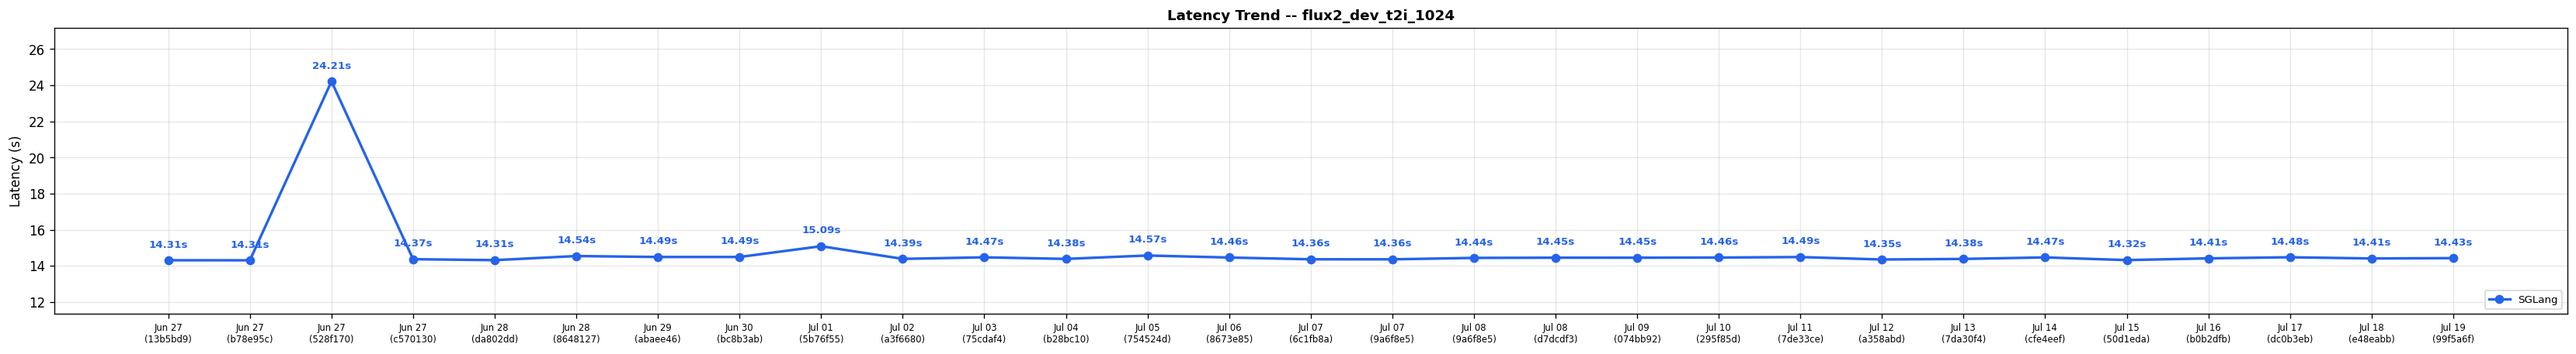
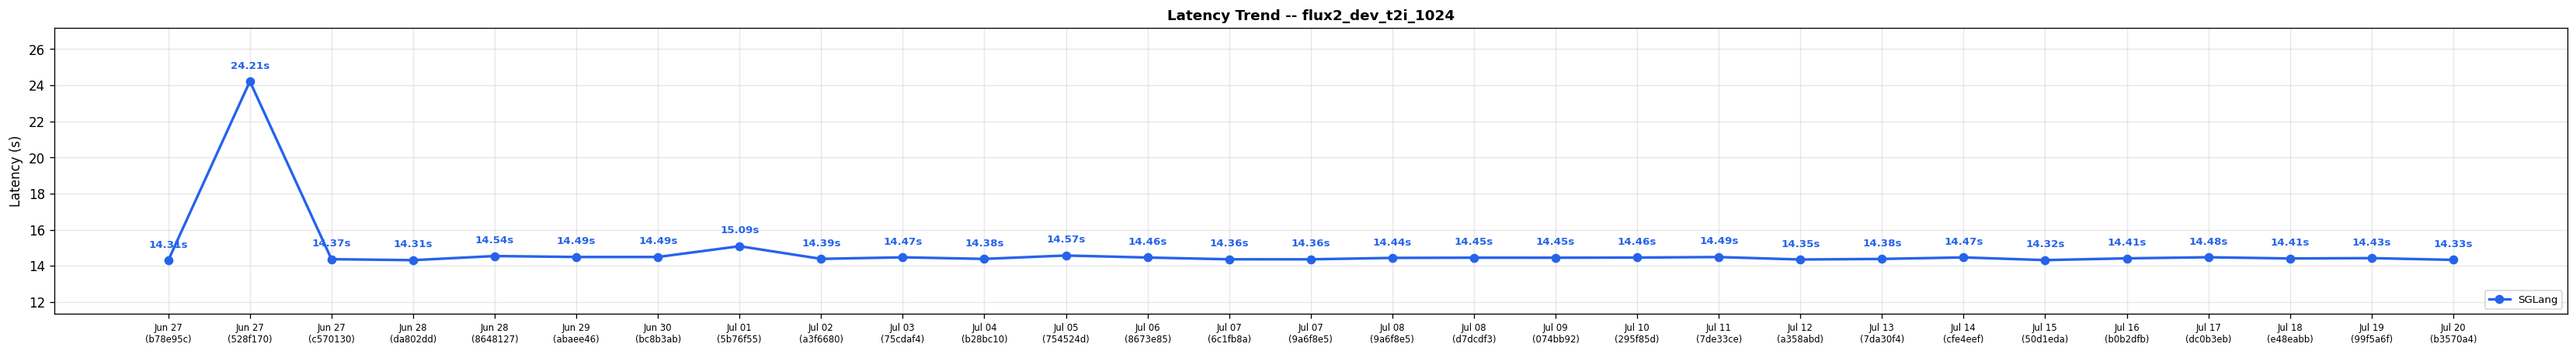
Diffusion comparison results for run 29709956426 (#722)

diff --git a/diffusion-comparisons/dashboard.md b/diffusion-comparisons/dashboard.md
@@ -1,22 +1,22 @@
 # SGLang-Diffusion Nightly Performance Dashboard
 
-*Generated: Jul 19 | Commit: `99f5a6f`*
+*Generated: Jul 20 | Commit: `b3570a4`*
 
 ## SGLang-Diffusion Performance
 
 | Model | Risk | sglang (s) |
 |-------|------|---------|
-| FLUX.1-dev | ✅ | **4.85** |
-| FLUX.2-dev | ✅ | **14.43** |
-| Qwen-Image-2512 | ⚠ | **10.96** |
-| Qwen-Image-Edit-2511 | ✅ | **15.41** |
-| Z-Image-Turbo | ✅ | **0.86** |
-| Wan2.2-T2V-A14B-Diffusers | ✅ | **210.72** |
-| Wan2.2-TI2V-5B-Diffusers | ✅ | **65.21** |
-| LTX-2.3 | ⚠ | **16.07** |
-| ideogram-4-fp8 | ✅ | **5.35** |
-| Cosmos3-Super | ✅ | **115.39** |
-| Wan2.2-I2V-A14B-Diffusers | ✅ | **203.71** |
+| FLUX.1-dev | ✅ | **4.83** |
+| FLUX.2-dev | ✅ | **14.33** |
+| Qwen-Image-2512 | ✅ | **8.80** |
+| Qwen-Image-Edit-2511 | ✅ | **15.26** |
+| Z-Image-Turbo | ✅ | **0.81** |
+| Wan2.2-T2V-A14B-Diffusers | ✅ | **210.73** |
+| Wan2.2-TI2V-5B-Diffusers | ✅ | **65.25** |
+| LTX-2.3 | ✅ | **13.06** |
+| ideogram-4-fp8 | ✅ | **5.31** |
+| Cosmos3-Super | ✅ | **115.38** |
+| Wan2.2-I2V-A14B-Diffusers | ✅ | **203.68** |
 
 ### Latency Trend: flux1_dev_t2i_1024
 
@@ -77,6 +77,7 @@
 
 | Date | Commit | flux1_dev_t2i_1024 (s) | flux2_dev_t2i_1024 (s) | qwen_image_2512_t2i_1024 (s) | qwen_image_edit_2511 (s) | zimage_turbo_t2i_1024 (s) | wan22_t2v_a14b_720p (s) | wan22_ti2v_5b_720p (s) | ltx2.3_twostage_ti2v_2gpus (s) | ideogram4_fp8_t2i_2gpu (s) | cosmos3_super_t2v_2gpu (s) | wan22_i2v_a14b_720p (s) | Trend |
 |------|--------|---------|---------|---------|---------|---------|---------|---------|---------|---------|---------|---------|-------|
+| Jul 20 | `b3570a4` | 4.83 | 14.33 | 8.80 | 15.26 | 0.81 | 210.73 | 65.25 | 13.06 | 5.31 | 115.38 | 203.68 | :left_right_arrow:  :left_right_arrow:  :arrow_down:  :left_right_arrow:  :arrow_down:  :left_right_arrow:  :left_right_arrow:  :arrow_down:  :left_right_arrow:  :left_right_arrow:  :left_right_arrow: |
 | Jul 19 | `99f5a6f` | 4.85 | 14.43 | 10.96 | 15.41 | 0.86 | 210.72 | 65.21 | 16.07 | 5.35 | 115.39 | 203.71 | :left_right_arrow:  :left_right_arrow:  :left_right_arrow:  :left_right_arrow:  :arrow_up:  :left_right_arrow:  :left_right_arrow:  :left_right_arrow:   :left_right_arrow:  :left_right_arrow: |
 | Jul 18 | `e48eabb` | 4.86 | 14.41 | 10.86 | 15.41 | 0.83 | 210.72 | 65.23 | 16.08 | N/A | 115.29 | 203.68 | :left_right_arrow:  :left_right_arrow:  :arrow_up:  :left_right_arrow:  :left_right_arrow:  :left_right_arrow:  :left_right_arrow:  :arrow_up:   :left_right_arrow:  :left_right_arrow: |
 | Jul 17 | `dc0b3eb` | 4.85 | 14.48 | 9.02 | 15.41 | 0.83 | 210.69 | 65.20 | 13.05 | 5.31 | 115.32 | 204.58 | :left_right_arrow:  :left_right_arrow:  :arrow_down:  :left_right_arrow:  :left_right_arrow:  :left_right_arrow:  :left_right_arrow:  :arrow_down:  :left_right_arrow:  :left_right_arrow:  :left_right_arrow: |
@@ -105,16 +106,7 @@
 | Jun 27 | `c570130` | 4.76 | 14.37 | 12.80 | 23.72 | 0.75 | 209.20 | 65.23 | 16.07 | 5.25 | 114.52 | 204.58 | :arrow_down:  :arrow_down:  :arrow_down:  :arrow_down:  :arrow_down:  :arrow_down:  :arrow_down:  :arrow_down:  :arrow_down:  :arrow_down:  :arrow_down: |
 | Jun 27 | `528f170` | 10.97 | 24.21 | 26.21 | 36.95 | 13.46 | 221.57 | 70.21 | 40.16 | 11.50 | 143.65 | 211.72 | :arrow_up:  :arrow_up:  :arrow_up:  :arrow_up:  :arrow_up:  :arrow_up:  :arrow_up:  :arrow_up:  :arrow_up:  :arrow_up:  :arrow_up: |
 | Jun 27 | `b78e95c` | 4.68 | 14.31 | 12.81 | 23.77 | 0.65 | 209.17 | 65.22 | 16.06 | 5.19 | 113.80 | 204.59 |      :left_right_arrow:  :left_right_arrow:  :arrow_up:   :left_right_arrow:  :left_right_arrow: |
-| Jun 27 | `a526ca2` | N/A | N/A | N/A | N/A | N/A | 209.33 | 65.19 | 15.05 | N/A | 113.74 | 204.61 |      :left_right_arrow:  :left_right_arrow:  :left_right_arrow:    |
-| Jun 27 | `13b5bd9` | 4.68 | 14.31 | 12.79 | 23.65 | 0.65 | 209.32 | 64.20 | 15.05 | N/A | N/A | N/A | -- |
-
-> [!CAUTION]
-> **Action Required — Performance Alert**
->
-> The following cases need attention:
-> - qwen_image_2512_t2i_1024: SGLang regression +7.1% vs 3-run avg (10.96s vs 10.23s)
-> - ltx2.3_twostage_ti2v_2gpus: SGLang regression +6.6% vs 3-run avg (16.07s vs 15.07s)
-
+| Jun 27 | `a526ca2` | N/A | N/A | N/A | N/A | N/A | 209.33 | 65.19 | 15.05 | N/A | 113.74 | 204.61 | -- |
 
 ---
 *Generated by `generate_diffusion_dashboard.py` in SGLang nightly CI.*
